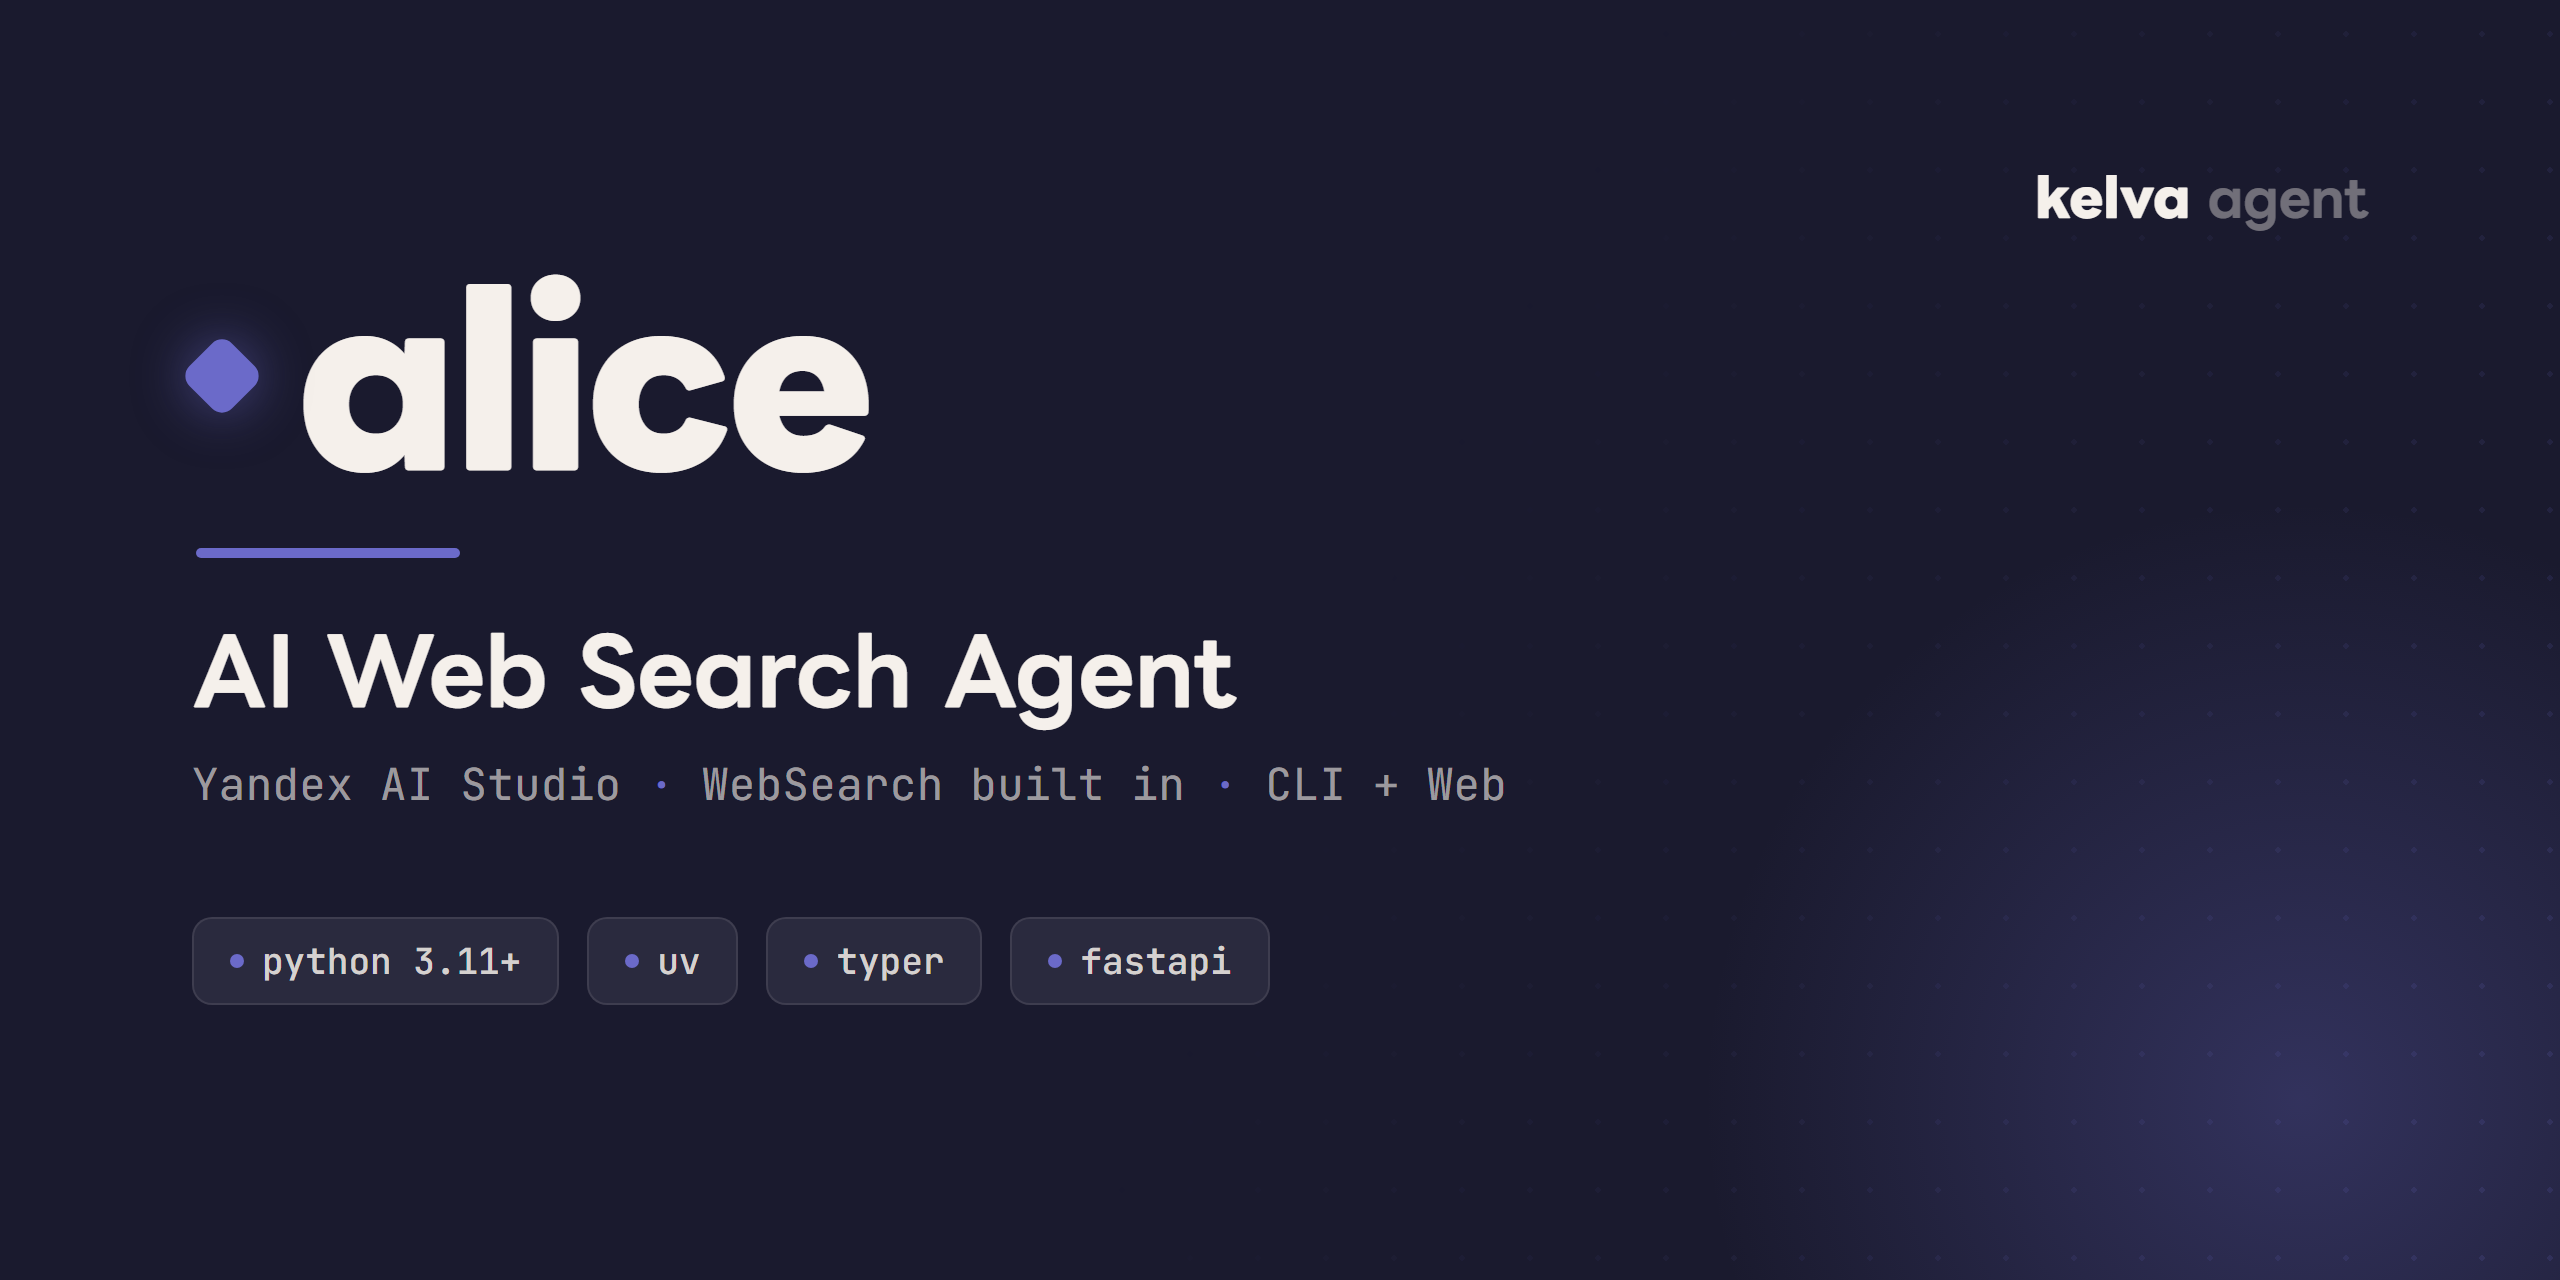
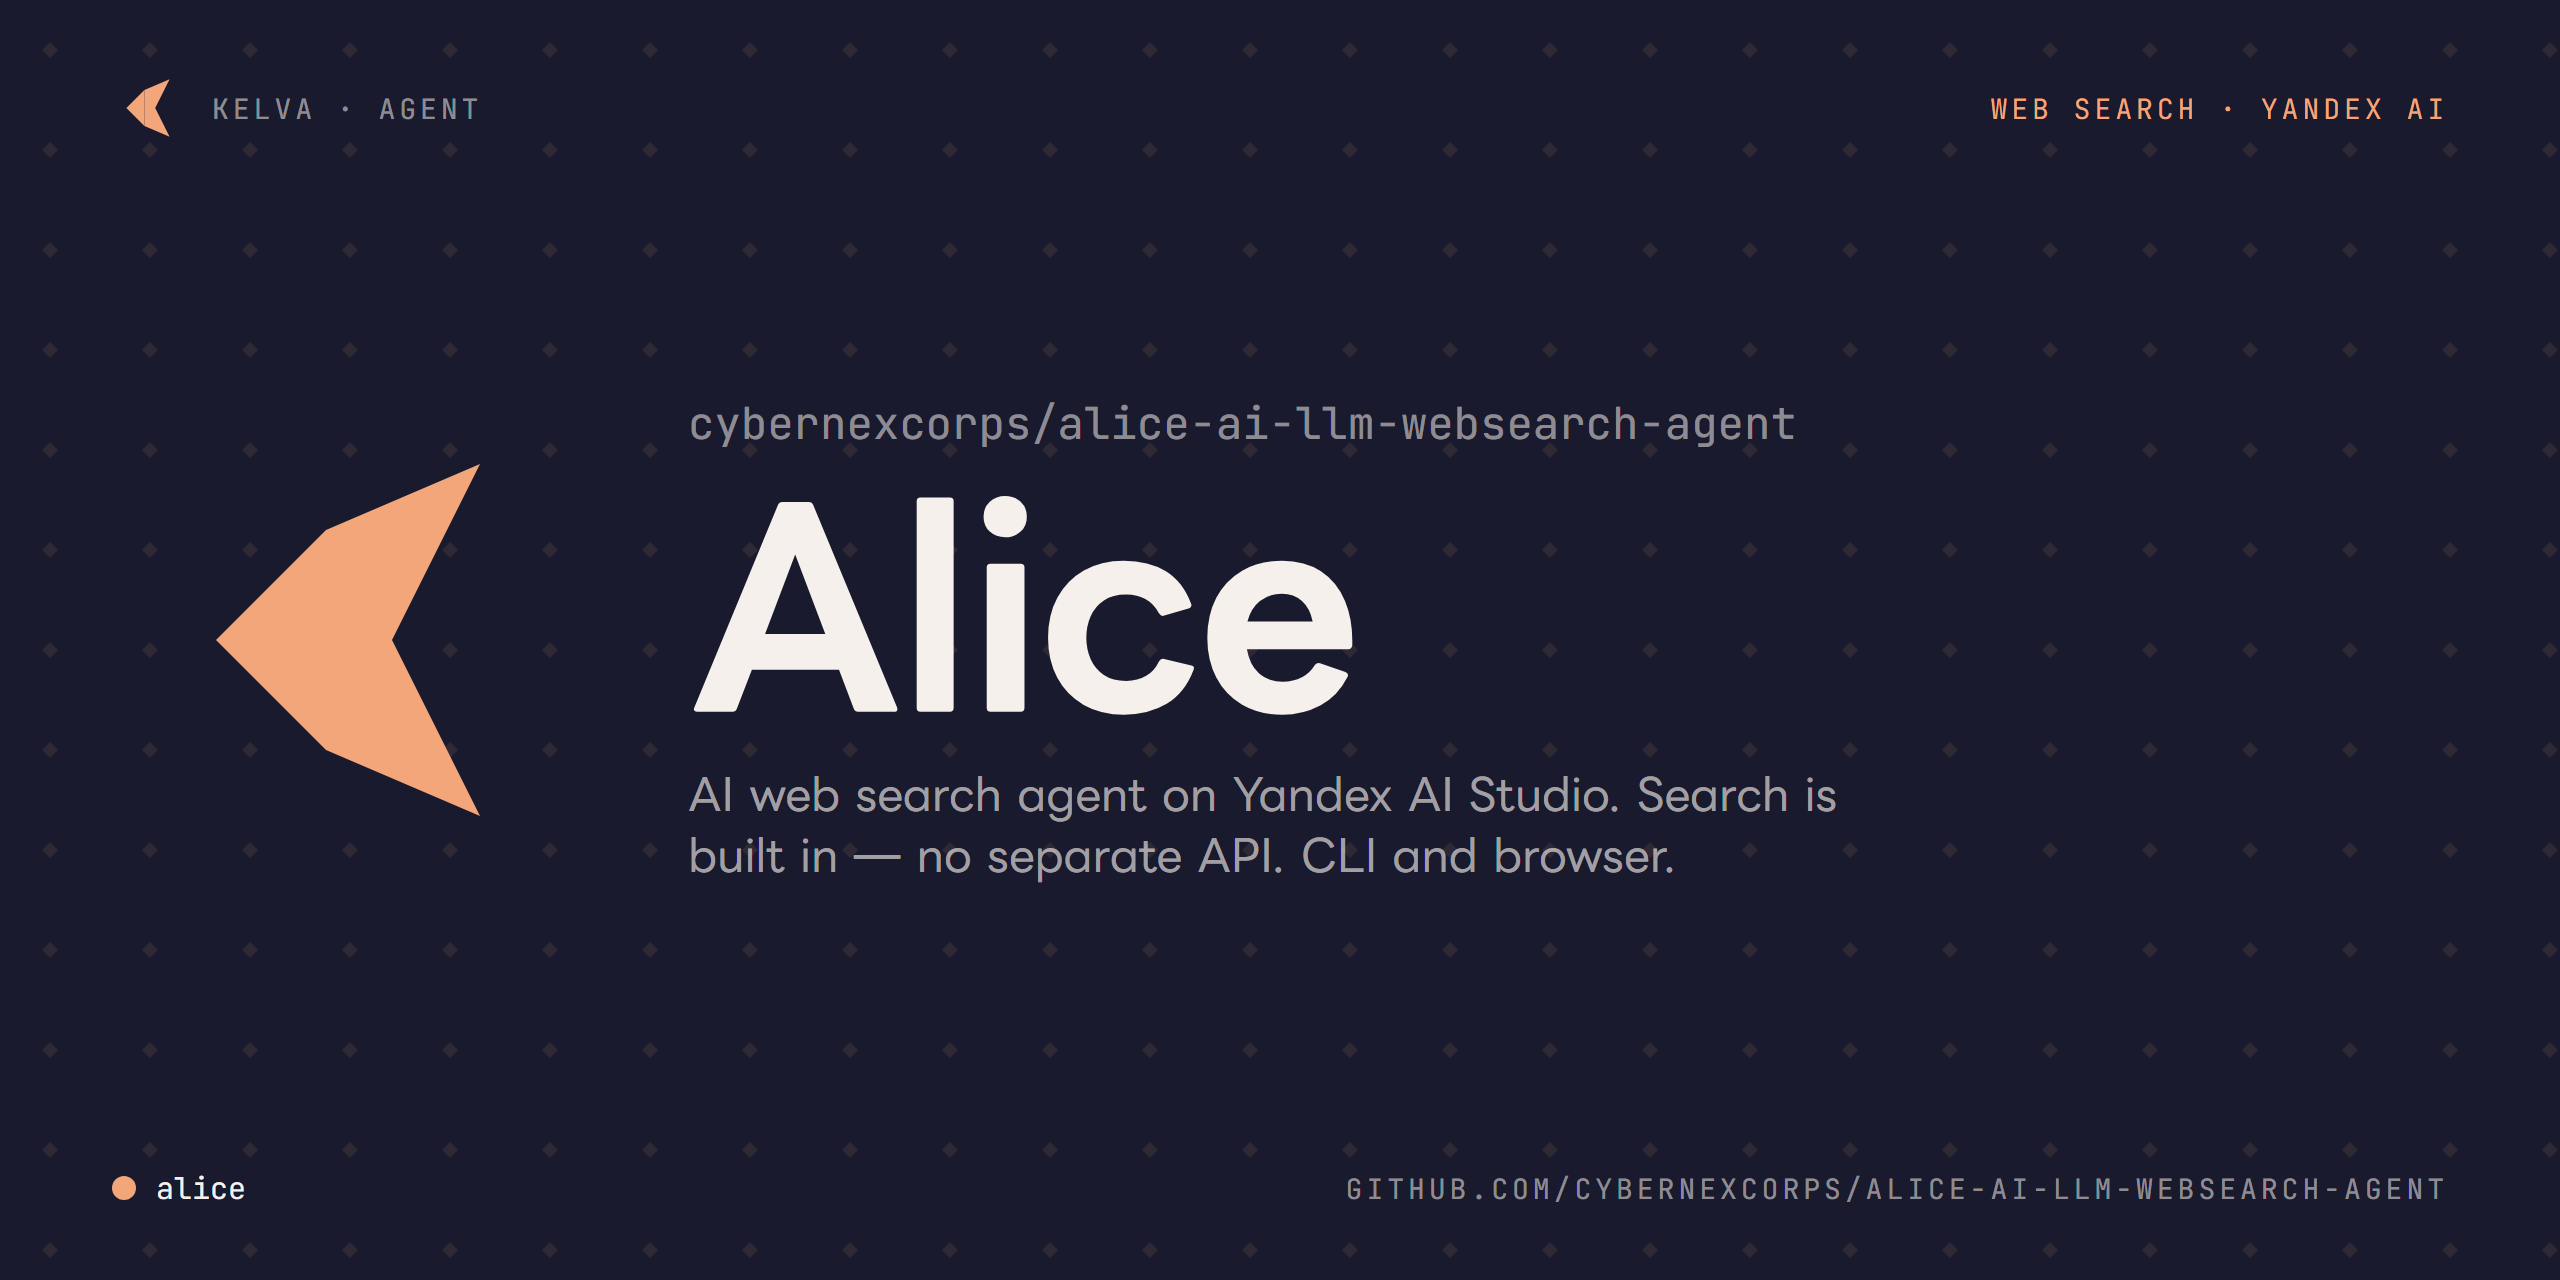
fix(brand): rebuild social preview from official Kelva design bundle
Prior card used a plain diamond + Indigo accent — both off-spec. Rebuilt as
the canonical CardAgent (github-social-app.jsx): offset-rhombus K mark, Alice's
official agent hue Peach #F2A679 (Agent Sub-Brand System), charcoal surface,
rhombus dot pattern, LINE Seed JP + JetBrains Mono.

diff --git a/assets/social-preview.html b/assets/social-preview.html
@@ -3,7 +3,8 @@
 <head>
 <meta charset="UTF-8" />
 <style>
-  /* Kelva self-hosted fonts — absolute file:// paths so Chrome headless loads them at render time. */
+  /* Kelva self-hosted fonts — absolute file:// paths so Chrome headless loads them at render time.
+     The brand design files (github-social-app.jsx, lockups-app.jsx) render in LINE Seed JP. */
   @font-face {
     font-family: 'LINE Seed JP';
     font-weight: 400; font-style: normal; font-display: block;
@@ -15,11 +16,6 @@
     src: url('file:///D:/Downloads/SynologyDrive/kelvatech/SharedWorkspace/assets/fonts/lineseed/lineseedjp-700-latin.woff2') format('woff2');
   }
   @font-face {
-    font-family: 'LINE Seed JP';
-    font-weight: 800; font-style: normal; font-display: block;
-    src: url('file:///D:/Downloads/SynologyDrive/kelvatech/SharedWorkspace/assets/fonts/lineseed/lineseedjp-800-latin.woff2') format('woff2');
-  }
-  @font-face {
     font-family: 'JetBrains Mono';
     font-weight: 400; font-style: normal; font-display: block;
     src: url('file:///D:/Downloads/SynologyDrive/kelvatech/SharedWorkspace/assets/fonts/lineseed/jetbrainsmono-400-latin-fs.woff2') format('woff2');
@@ -29,120 +25,124 @@
     font-weight: 500; font-style: normal; font-display: block;
     src: url('file:///D:/Downloads/SynologyDrive/kelvatech/SharedWorkspace/assets/fonts/lineseed/jetbrainsmono-500-latin-fs.woff2') format('woff2');
   }
-  @font-face {
-    font-family: 'JetBrains Mono';
-    font-weight: 600; font-style: normal; font-display: block;
-    src: url('file:///D:/Downloads/SynologyDrive/kelvatech/SharedWorkspace/assets/fonts/lineseed/jetbrainsmono-600-latin-fs.woff2') format('woff2');
-  }
 
   * { margin: 0; padding: 0; box-sizing: border-box; }
 
   :root {
+    /* brand-spec.json tokens */
     --charcoal: #1A1A2E;
-    --charcoal-soft: #2A2A3E;
     --cream: #F5F0EB;
-    --indigo: #6B6AC9;
+    /* Alice's agent hue — Peach, per the Kelva Agent Sub-Brand System */
+    --agent: #F2A679;
+    --label-dark: rgba(245,240,235,0.55);
   }
 
   html, body { width: 1280px; height: 640px; }
 
   body {
+    font-family: 'LINE Seed JP', 'Inter', ui-sans-serif, system-ui, sans-serif;
+  }
+
+  /* ── CardAgent · charcoal surface, agent-color accent (github-social-app.jsx) ── */
+  .card {
+    width: 1280px; height: 640px; position: relative; overflow: hidden;
     background: var(--charcoal);
-    color: var(--cream);
-    font-family: 'LINE Seed JP', sans-serif;
-    position: relative;
-    overflow: hidden;
   }
 
-  /* Faint geometric dot-grid — infrastructure aesthetic, no AI clichés. */
-  .grid {
-    position: absolute; inset: 0;
-    background-image: radial-gradient(circle, rgba(107,106,201,0.16) 1.4px, transparent 1.4px);
-    background-size: 34px 34px;
-    -webkit-mask-image: linear-gradient(115deg, transparent 52%, #000 100%);
-    mask-image: linear-gradient(115deg, transparent 52%, #000 100%);
+  /* Rhombus dot pattern — agent color, opacity 0.10, 50px density (PatternBg) */
+  .pattern { position: absolute; inset: 0; pointer-events: none; }
+
+  .mono {
+    font-family: 'JetBrains Mono', ui-monospace, Menlo, monospace;
   }
-  /* Soft indigo glow anchored bottom-right. */
-  .glow {
-    position: absolute; right: -180px; bottom: -220px;
-    width: 620px; height: 620px; border-radius: 50%;
-    background: radial-gradient(circle, rgba(107,106,201,0.30) 0%, rgba(107,106,201,0) 68%);
+  .mono-label {
+    font-family: 'JetBrains Mono', ui-monospace, Menlo, monospace;
+    font-size: 14px; letter-spacing: 2px; text-transform: uppercase;
   }
 
-  .frame {
-    position: relative; z-index: 2;
-    width: 100%; height: 100%;
-    padding: 84px 96px;
-    display: flex; flex-direction: column; justify-content: center;
+  /* top bar */
+  .top {
+    position: absolute; top: 0; left: 0; right: 0;
+    padding: 36px 56px; display: flex;
+    justify-content: space-between; align-items: center; z-index: 2;
+  }
+  .top-left { display: flex; align-items: center; gap: 14px; }
+  .role { color: var(--agent); }
+
+  /* body */
+  .body {
+    position: absolute; inset: 120px 56px 120px 64px;
+    display: flex; align-items: center; gap: 60px; z-index: 2;
+  }
+  .col { flex: 1; min-width: 0; }
+  .repo-path { font-family: 'JetBrains Mono', ui-monospace, Menlo, monospace;
+    font-size: 22px; color: var(--label-dark); }
+  .title {
+    font-size: 132px; font-weight: 700; letter-spacing: -3px;
+    line-height: 0.95; color: var(--cream); margin: 12px 0 0;
+  }
+  .desc {
+    font-size: 22px; color: rgba(245,240,235,0.65);
+    margin-top: 18px; max-width: 600px; line-height: 1.4; font-weight: 400;
   }
 
-  .mark { display: flex; align-items: center; gap: 22px; margin-bottom: 10px; }
-  .diamond {
-    width: 30px; height: 30px; transform: rotate(45deg);
-    background: var(--indigo);
-    border-radius: 7px;
-    box-shadow: 0 0 26px rgba(107,106,201,0.55);
+  /* footer */
+  .footer {
+    position: absolute; bottom: 0; left: 0; right: 0;
+    padding: 36px 56px; display: flex;
+    justify-content: space-between; align-items: center; z-index: 2;
   }
-  .wordmark {
-    font-weight: 800; font-size: 112px; line-height: 0.9;
-    letter-spacing: -0.03em; color: var(--cream);
-  }
-  .rule {
-    width: 132px; height: 5px; border-radius: 3px;
-    background: var(--indigo); margin: 26px 0 30px 2px;
-  }
-  .tagline {
-    font-weight: 700; font-size: 46px; letter-spacing: -0.01em;
-    color: var(--cream);
-  }
-  .subtitle {
-    font-family: 'JetBrains Mono', monospace; font-weight: 400;
-    font-size: 22px; letter-spacing: 0.01em;
-    color: rgba(245,240,235,0.62); margin-top: 18px;
-  }
-  .subtitle .accent { color: var(--indigo); }
-
-  .chips {
-    display: flex; gap: 14px; margin-top: 52px;
-    font-family: 'JetBrains Mono', monospace; font-weight: 500; font-size: 18px;
-  }
-  .chip {
-    display: flex; align-items: center; gap: 9px;
-    padding: 9px 18px; border-radius: 10px;
-    background: var(--charcoal-soft);
-    border: 1px solid rgba(245,240,235,0.10);
-    color: rgba(245,240,235,0.86);
-  }
-  .chip .dot { width: 7px; height: 7px; border-radius: 50%; background: var(--indigo); }
-
-  /* Master-brand tie: small kelva wordmark, top-right. */
-  .kelva {
-    position: absolute; top: 84px; right: 96px; z-index: 2;
-    font-family: 'LINE Seed JP', sans-serif; font-weight: 700; font-size: 26px;
-    letter-spacing: -0.01em; color: rgba(245,240,235,0.40);
-  }
-  .kelva b { color: var(--cream); font-weight: 800; }
+  .footer-left { display: flex; align-items: center; gap: 10px; }
+  .dot { width: 12px; height: 12px; border-radius: 999px; background: var(--agent); display: inline-block; }
+  .footer-name { font-family: 'JetBrains Mono', ui-monospace, Menlo, monospace;
+    font-size: 15px; color: var(--cream); }
 </style>
 </head>
 <body>
-  <div class="grid"></div>
-  <div class="glow"></div>
-  <div class="kelva"><b>kelva</b> agent</div>
+  <div class="card">
+    <!-- Rhombus dot pattern -->
+    <svg class="pattern" viewBox="0 0 1280 640" width="100%" height="100%" preserveAspectRatio="none">
+      <defs>
+        <pattern id="rhombus" width="50" height="50" patternUnits="userSpaceOnUse">
+          <path d="M 25 21 L 29 25 L 25 29 L 21 25 Z" fill="#F2A679" opacity="0.10" />
+        </pattern>
+      </defs>
+      <rect width="1280" height="640" fill="url(#rhombus)" />
+    </svg>
 
-  <div class="frame">
-    <div class="mark">
-      <div class="diamond"></div>
-      <div class="wordmark">alice</div>
+    <!-- top bar -->
+    <div class="top">
+      <div class="top-left">
+        <!-- KMark · offset-rhombus, agent fill -->
+        <svg viewBox="0 0 100 100" width="36" height="36" style="display:block">
+          <path d="M 20 50 L 45 25 L 45 75 Z" fill="#F2A679" />
+          <path d="M 45 25 L 80 10 L 60 50 L 80 90 L 45 75 Z" fill="#F2A679" />
+        </svg>
+        <span class="mono-label" style="color:var(--label-dark)">kelva &middot; agent</span>
+      </div>
+      <span class="mono-label role">Web search &middot; Yandex AI</span>
     </div>
-    <div class="rule"></div>
-    <div class="tagline">AI Web Search Agent</div>
-    <div class="subtitle">Yandex AI Studio <span class="accent">·</span> WebSearch built in <span class="accent">·</span> CLI + Web</div>
 
-    <div class="chips">
-      <div class="chip"><span class="dot"></span>python 3.11+</div>
-      <div class="chip"><span class="dot"></span>uv</div>
-      <div class="chip"><span class="dot"></span>typer</div>
-      <div class="chip"><span class="dot"></span>fastapi</div>
+    <!-- body -->
+    <div class="body">
+      <svg viewBox="0 0 100 100" width="220" height="220" style="display:block;flex-shrink:0">
+        <path d="M 20 50 L 45 25 L 45 75 Z" fill="#F2A679" />
+        <path d="M 45 25 L 80 10 L 60 50 L 80 90 L 45 75 Z" fill="#F2A679" />
+      </svg>
+      <div class="col">
+        <div class="repo-path">cybernexcorps/alice-ai-llm-websearch-agent</div>
+        <h1 class="title">Alice</h1>
+        <div class="desc">AI web search agent on Yandex AI Studio. Search is built in &mdash; no separate API. CLI and browser.</div>
+      </div>
+    </div>
+
+    <!-- footer -->
+    <div class="footer">
+      <div class="footer-left">
+        <span class="dot"></span>
+        <span class="footer-name">alice</span>
+      </div>
+      <span class="mono-label" style="color:var(--label-dark)">github.com/cybernexcorps/alice-ai-llm-websearch-agent</span>
     </div>
   </div>
 </body>
